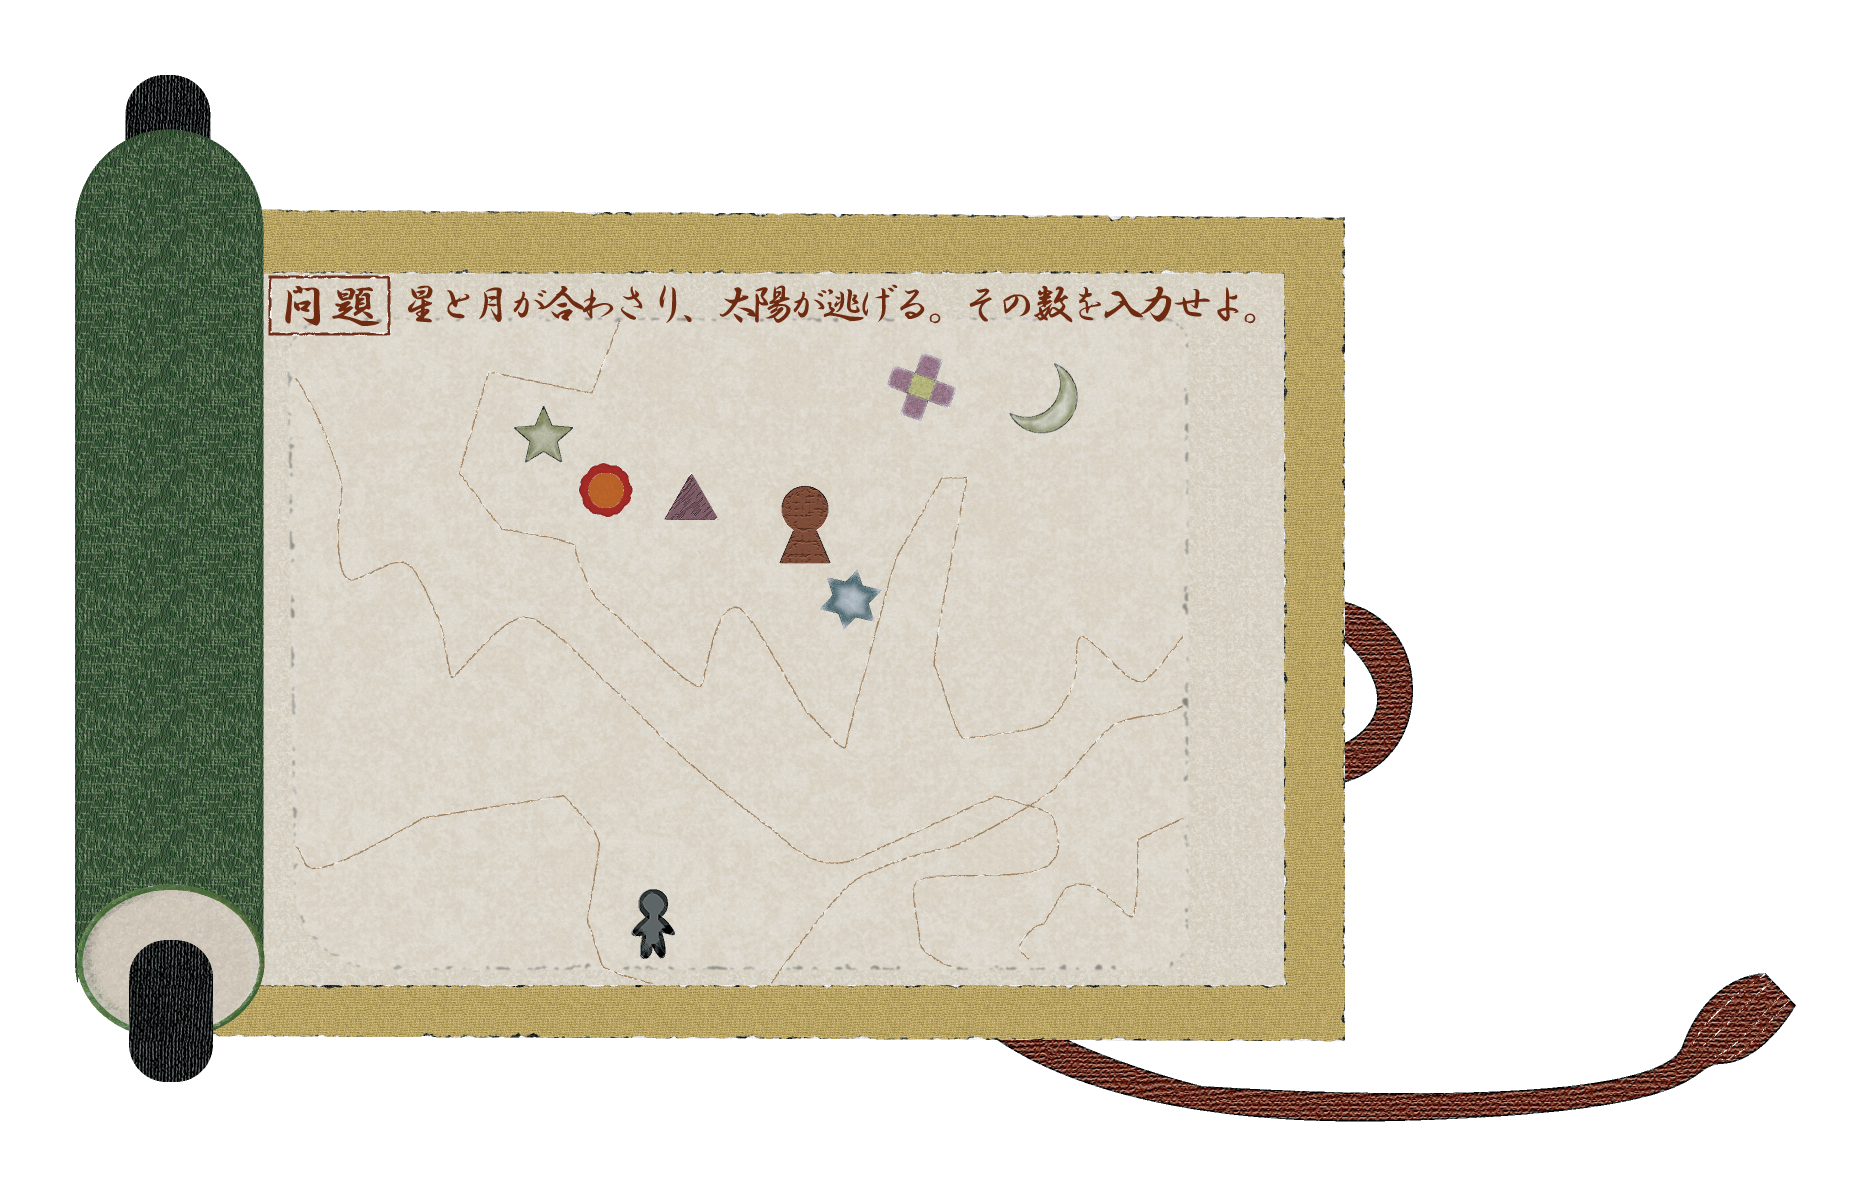
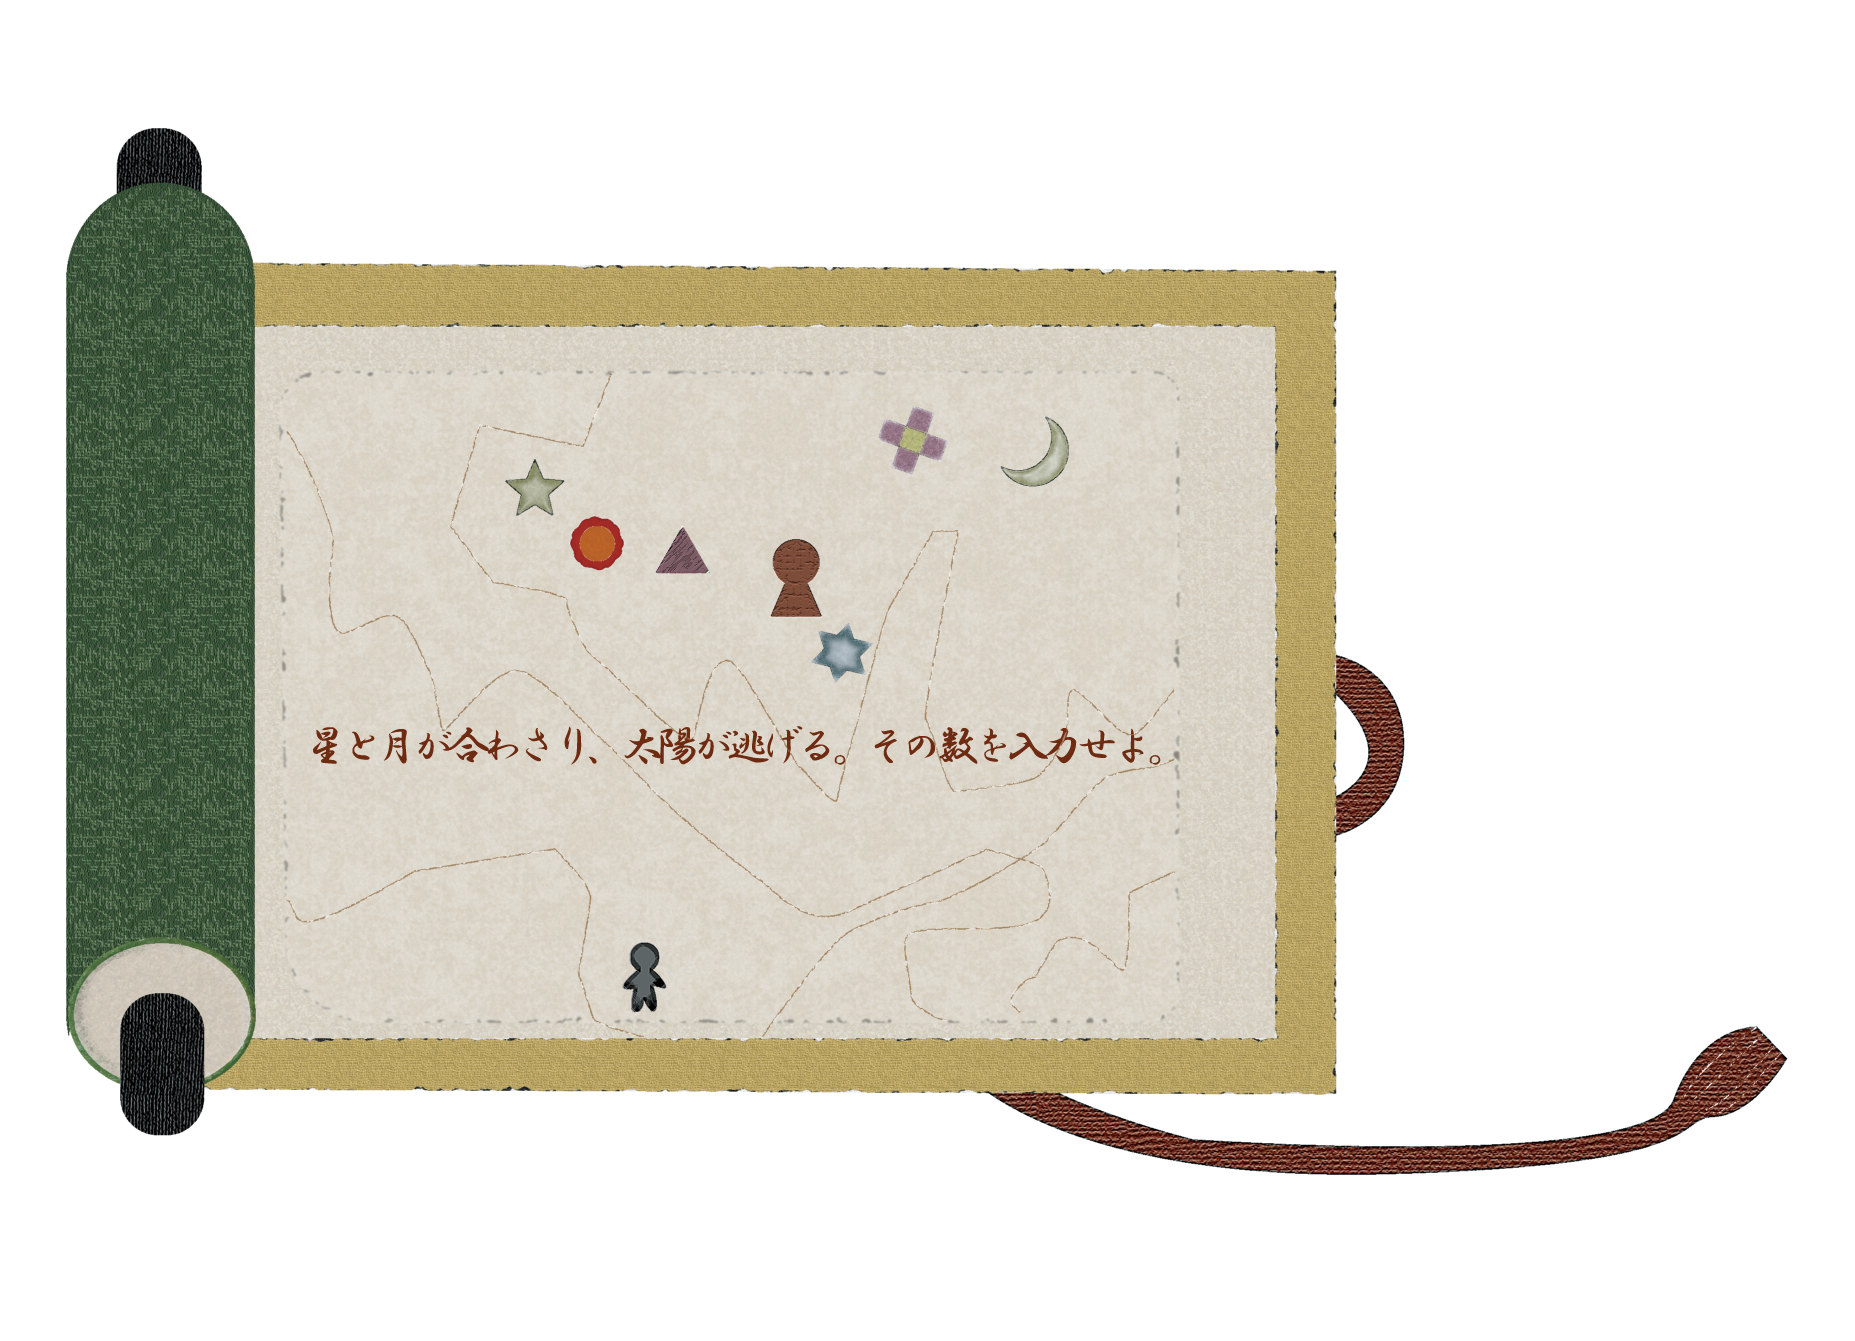
Add files via upload

diff --git a/index.html b/index.html
@@ -191,6 +191,16 @@
     }
 
 
+    /* 正解画像と識別情報のラッパー */
+
+    .correct-image-wrap {
+      position: relative;
+      display: inline-block;
+      max-width: 96vw;
+      max-height: 92vh;
+    }
+
+
     /* 正解画像 */
 
     .correct-image {
@@ -218,6 +228,43 @@
     .correct-overlay.show .correct-image {
       transform: scale(1);
       opacity: 1;
+    }
+
+
+    /* 不正利用抑止用の表示 */
+
+    .security-overlay {
+      position: absolute;
+      top: 2px;
+      right: 2px;
+
+      width: auto;
+      max-width: min(24vw, 140px);
+
+      padding: 2px 4px;
+
+      border-radius: 4px;
+
+      background: rgba(0, 0, 0, 0.44);
+      color: #ffffff;
+
+      text-align: right;
+      line-height: 1.1;
+
+      font-size: 7px;
+      font-weight: 700;
+
+      text-shadow: 0 1px 1px rgba(0, 0, 0, 0.9);
+
+      pointer-events: none;
+      user-select: none;
+    }
+
+    .security-overlay .security-note {
+      margin-top: 1px;
+      font-size: 6px;
+      font-weight: 500;
+      opacity: 0.88;
     }
 
 
@@ -251,6 +298,19 @@
         padding: 0 14px;
 
         font-size: 16px;
+      }
+
+      .security-overlay {
+        top: 2px;
+        right: 2px;
+        max-width: min(28vw, 92px);
+        padding: 2px 3px;
+        font-size: 5px;
+        line-height: 1.05;
+      }
+
+      .security-overlay .security-note {
+        font-size: 4px;
       }
     }
 
@@ -329,12 +389,28 @@
     aria-hidden="true"
   >
 
-    <img
-      src="image_seikai.jpg"
-      alt="正解"
-      class="correct-image"
-      id="correctImage"
-    >
+    <div class="correct-image-wrap">
+
+      <img
+        src="image_seikai.jpg"
+        alt="正解"
+        class="correct-image"
+        id="correctImage"
+      >
+
+      <div
+        class="security-overlay"
+        id="securityOverlay"
+        aria-live="polite"
+      >
+        <div id="securityDateTime"></div>
+        <div id="securitySerial"></div>
+        <div class="security-note">
+          不正コピー防止のため識別情報を表示しています
+        </div>
+      </div>
+
+    </div>
 
   </div>
 
@@ -358,8 +434,16 @@
     const message =
       document.getElementById("message");
 
+    const securityDateTime =
+      document.getElementById("securityDateTime");
 
-    let validAnswers = [];
+    const securitySerial =
+      document.getElementById("securitySerial");
+
+
+    // ローカルで直接HTMLを開いた場合でも動作する初期正解
+    // text_answer.txt が正常に読めた場合は、その内容で上書きする
+    let validAnswers = ["6", "６", "六"];
 
     let isCorrect = false;
 
@@ -449,10 +533,14 @@
 
       } catch (error) {
 
-        console.error(error);
+        console.warn(
+          "text_answer.txt を読み込めなかったため、HTML内の初期正解を使用します。",
+          error
+        );
 
-        message.textContent =
-          "正解データを読み込めませんでした。";
+        // file:// で直接開いた場合などは fetch が失敗することがある。
+        // 初期値 ["6", "６", "六"] をそのまま使用する。
+        message.textContent = "";
 
       }
 
@@ -507,12 +595,86 @@
 
 
     /* ==============================
+       正解日時・シリアル番号
+       ============================== */
+
+    function formatCorrectDateTime(date) {
+
+      const year = date.getFullYear();
+      const month = String(date.getMonth() + 1).padStart(2, "0");
+      const day = String(date.getDate()).padStart(2, "0");
+      const hour = String(date.getHours()).padStart(2, "0");
+      const minute = String(date.getMinutes()).padStart(2, "0");
+      const second = String(date.getSeconds()).padStart(2, "0");
+
+      return `${year}/${month}/${day} ${hour}:${minute}:${second}`;
+    }
+
+
+    function createRandomSerial() {
+
+      const chars = "ABCDEFGHJKLMNPQRSTUVWXYZ23456789";
+      const bytes = new Uint32Array(12);
+
+      if (
+        window.crypto &&
+        window.crypto.getRandomValues
+      ) {
+
+        window.crypto.getRandomValues(bytes);
+
+      } else {
+
+        for (let i = 0; i < bytes.length; i++) {
+          bytes[i] = Math.floor(Math.random() * 0xffffffff);
+        }
+
+      }
+
+      let serial = "";
+
+      for (let i = 0; i < bytes.length; i++) {
+
+        serial += chars[
+          bytes[i] % chars.length
+        ];
+
+        if (
+          i === 3 ||
+          i === 7
+        ) {
+
+          serial += "-";
+        }
+      }
+
+      return serial;
+    }
+
+
+    function updateSecurityInfo() {
+
+      const now = new Date();
+
+      securityDateTime.textContent =
+        "正解日時: " + formatCorrectDateTime(now);
+
+      securitySerial.textContent =
+        "SERIAL: " + createRandomSerial();
+    }
+
+
+
+    /* ==============================
        正解画像表示
        ============================== */
 
     function showCorrectImage() {
 
       isCorrect = true;
+
+      // 正解した瞬間の日時とランダムな識別番号を生成
+      updateSecurityInfo();
 
 
       /*
